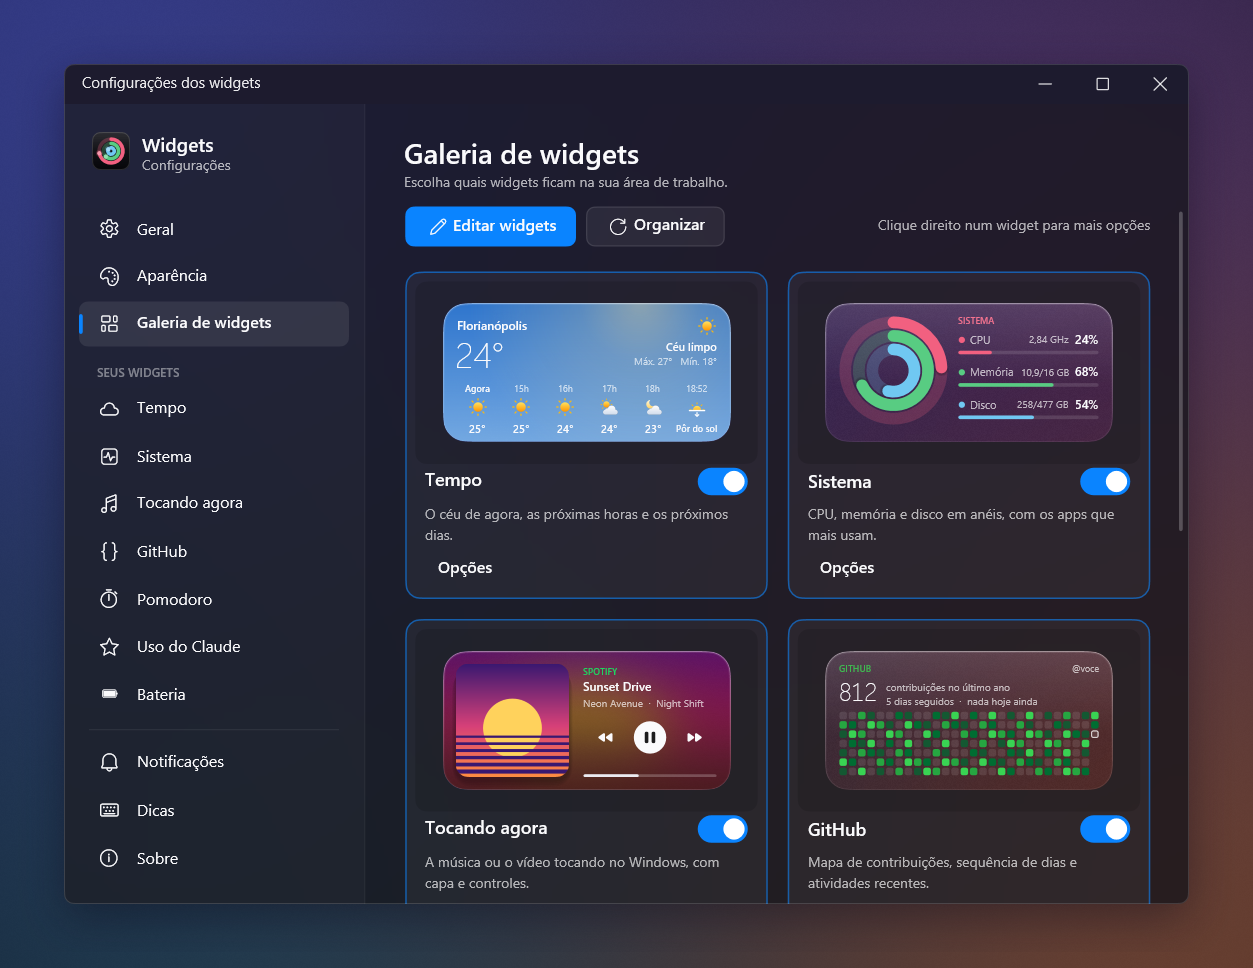
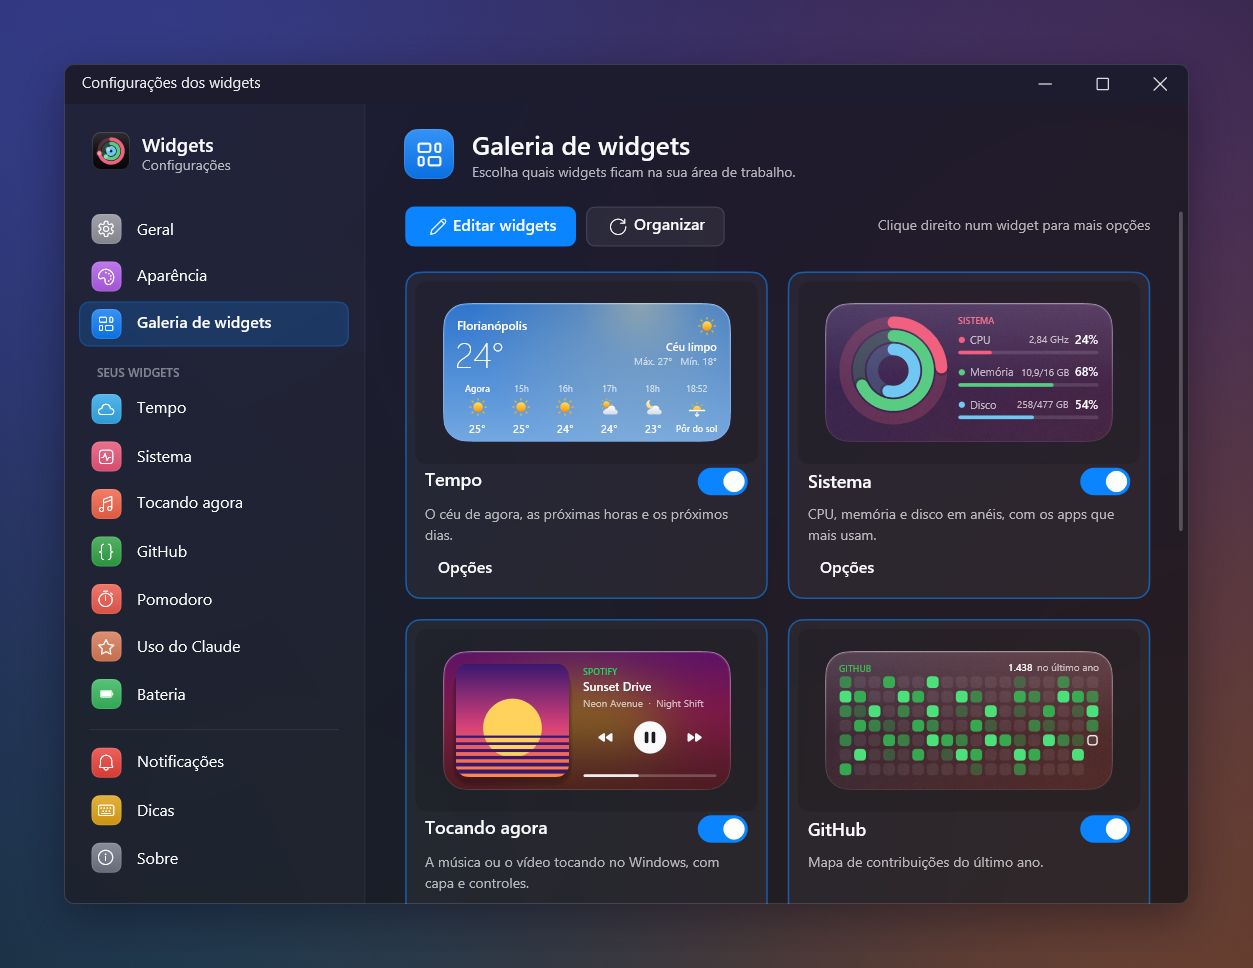
docs(readme): a ilha com os outros widgets, a bateria nova e as imagens atualizadas

diff --git a/README.md b/README.md
@@ -199,10 +199,20 @@ o volume do app que está tocando.
 
 **Ilha flutuante.** Clique no Tocando agora (fora dos botões) e ele vira uma pílula preta por
 cima de todas as janelas. Parada, ela mostra a capa e ondas que seguem o som; com o mouse em
-cima, estica e mostra a música; com um clique, abre inteira. Arraste para qualquer lugar (perto
-do alto e do meio, ela encaixa lá). Em jogo ou vídeo em tela cheia, ela se esconde. Para
-devolver o widget à área de trabalho, use **Voltar para a área de trabalho** na ilha aberta ou o
-clique direito; se nada tocar por 5 minutos, ela volta sozinha.
+cima, estica e mostra a música; com um clique, abre inteira. Ela começa na barra de tarefas, à
+esquerda do botão Iniciar (e acompanha o botão quando ele anda), e cresce para cima e para a
+esquerda, sem cobrir o Iniciar. Arraste para qualquer lugar: perto da barra ou do alto e do meio
+da tela, ela encaixa lá; no clique direito, **Na barra de tarefas** a leva de volta. Em jogo ou
+vídeo em tela cheia, ela se esconde. Para devolver o widget à área de trabalho, use **Voltar para
+a área de trabalho** na ilha aberta ou o clique direito; se nada tocar por 5 minutos, ela volta
+sozinha.
+
+Os outros widgets também passam pela ilha quando têm algo a dizer: o Pomodoro correndo, a CPU
+alta no Sistema, um pedido de revisão no GitHub, a bateria fraca (ou o carregador entrando e
+saindo, com "Carregando · cheia em 1 h 10" por alguns segundos) e o Tempo avisando de chuva
+chegando ("Chuva em 20 min"), trovoada ou uma mudança forte de temperatura amanhã. Aberta, a ilha
+do Tempo mostra as próximas horas com o céu animado ao fundo. Cada widget tem o interruptor
+**Mostrar na ilha** nas configurações.
 
 <p align="center">
   <img src="docs/images/ilha.webp" width="560" alt="O Tocando agora virando a ilha flutuante, esticando, abrindo e voltando">
@@ -210,9 +220,10 @@ clique direito; se nada tocar por 5 minutos, ela volta sozinha.
 
 ### GitHub
 
-O mapa de contribuições, a sequência de dias e as últimas atividades. Se você usa o
-[GitHub CLI](https://cli.github.com/), entram também os repositórios privados e um aviso quando
-alguém pede sua revisão.
+O mapa de contribuições do último ano, em quadrados que ocupam o cartão: quanto maior o widget,
+mais semanas e maiores os quadrados (no grande, o ano inteiro em três faixas, cada uma com quantas
+contribuições teve). Passe o mouse num quadrado para ver o dia. Se você usa o
+[GitHub CLI](https://cli.github.com/), chega um aviso quando alguém pede sua revisão.
 
 <p align="center">
   <img src="docs/images/github.png" width="620" alt="GitHub nos três tamanhos">
@@ -279,11 +290,17 @@ de cada conversa. Quem já usava o app encontra este widget na Galeria de widget
 ### Bateria
 
 A bateria do notebook e a dos dispositivos conectados: fones, mouses, teclados e controles. O
-anel do notebook diz quanto falta para acabar (ou a hora em que fica cheia, na tomada); o grande
-mostra também a saúde da bateria (a capacidade de agora contra a de fábrica), os ciclos de carga
-e as últimas 24 horas, com os períodos na tomada em verde. Cada aparelho tem a barra de carga,
-e um aviso chega quando um deles passa de 15%. Num PC de mesa, sem bateria, o widget vira só a
-lista de dispositivos.
+anel do notebook mostra a carga, e embaixo dele fica quanto falta para acabar (ou para encher,
+na tomada). O grande mostra também o estado numa pílula ao lado do título, a saúde da bateria (a
+capacidade de agora contra a de fábrica), os ciclos de carga e as últimas 24 horas, com os
+períodos na tomada em verde. Cada aparelho tem a barra de carga, e um aviso chega quando um deles
+passa de 15%. No pequeno, cada aparelho tem o seu anel; os lugares que sobram ficam com o anel
+vazio. Num PC de mesa, sem bateria, o widget vira só a lista de dispositivos.
+
+Um aparelho que conecta aparece na hora (o Windows avisa o widget assim que a conexão muda). No
+pequeno, ele ocupa o primeiro anel vazio: o ícone entra com um "pop", uma onda sai do anel e o
+arco enche do zero até a carga; ao desconectar, o caminho volta e o lugar fica vazio, sem os
+outros mudarem de lugar.
 
 As animações tocam só nos momentos que importam: ao ligar na tomada, uma onda sai do anel e o
 raio aparece; os números rolam quando a carga muda; na carga completa, um reflexo atravessa o
@@ -304,7 +321,7 @@ encosta em outro nem na ilha do Tocando agora, e ninguém sai da tela.
 
 **Pilhas.** Solte um widget no meio de outro e os dois viram uma pilha, como no iPhone: ocupam o
 lugar de um só e a roda do mouse troca entre eles (ao trocar, bolinhas ao lado do cartão dizem
-qual é qual, como no macOS). Em cima das horas do Tempo, da lista do GitHub, da barra de volume do Tocando agora e do
+qual é qual, como no macOS). Em cima das horas do Tempo, da barra de volume do Tocando agora e do
 anel do Pomodoro, a roda continua fazendo o que faz no widget. Para desfazer, clique direito →
 **Tirar da pilha**.
 
@@ -364,10 +381,13 @@ no vidro.
 ### Tudo no clique direito
 
 O app não usa atalhos de teclado globais, para não roubar combinações de outros programas (nem o
-AltGr do teclado ABNT2). Tudo fica no menu do clique direito, num widget ou no ícone da bandeja:
+AltGr do teclado ABNT2). Tudo fica no menu do clique direito, num widget ou no ícone da bandeja.
+Em cima, o nome do widget e o botão azul **Organizar widgets**; depois, o que é do widget e o que
+vale para todos:
 
 | | |
 |---|---|
+| Organizar widgets | Arruma cada monitor em colunas a partir da direita |
 | Mostrar na frente | Traz os widgets para a frente das janelas |
 | Modo edição | Fecha, redimensiona e move tudo de uma vez (e tem "Desfazer") |
 | Modo foco | Esconde os widgets por 30 min, 1 h, 2 h ou até você desligar |
